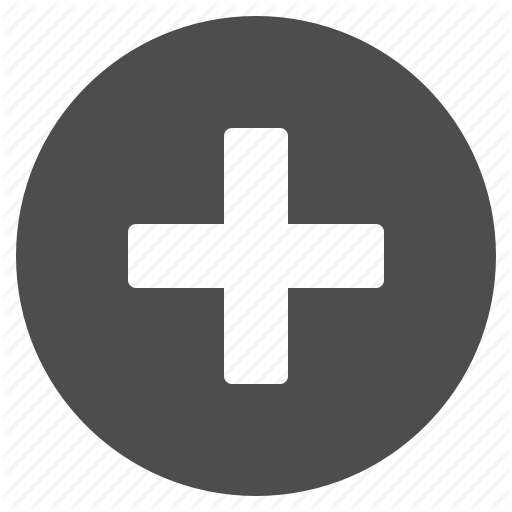
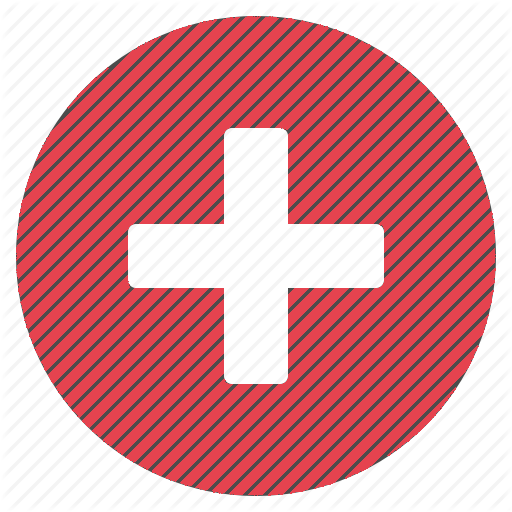
Colored prospective resource sprites (attempted to maintain transparency when possible). Added presets for JAR building. Fixed logic in fulfillVolition that would have left players constantly moving if they didn't specify otherwise.

diff --git a/src/server/Entity.java b/src/server/Entity.java
@@ -94,18 +94,24 @@ public abstract class Entity implements Serializable{
 
     public boolean fulfillVolition(){
         if(!alive) throw new IllegalStateException("Dead things have no volition.");
-        if(this.hasMovementVolition()){
+        //Volition Priority: Face, Move, Shoot. If ever set to multiple, accept in order of priority. (This should never happen)
+        if(this.hasFacingVolition()){
+            this.facing = facingVolition;
+            //Reset back to default
+            this.facingVolition = -1; //This should NEVER be accessed when its value is -1, a check for hasFacingVolition() should precede getter of this value
+            this.hasFacingVolition = false;
+            return true;
+        }
+        else if(this.hasMovementVolition()){
             this.move();
+            //Reset back to default
             this.hasMovementVolition = false;
             return true;
         }
         else if(this.hasShootingVolition()){
             this.shoot();
-            return true;
-        }
-        else if(this.hasFacingVolition()){
-            this.facing = facingVolition;
-            this.facingVolition = -1; //This should NEVER be accessed when its value is -1, a check for hasFacingVolition() should precede getter of this value
+            //Reset back to default
+            this.hasShootingVolition = false;
             return true;
         }
         else{
